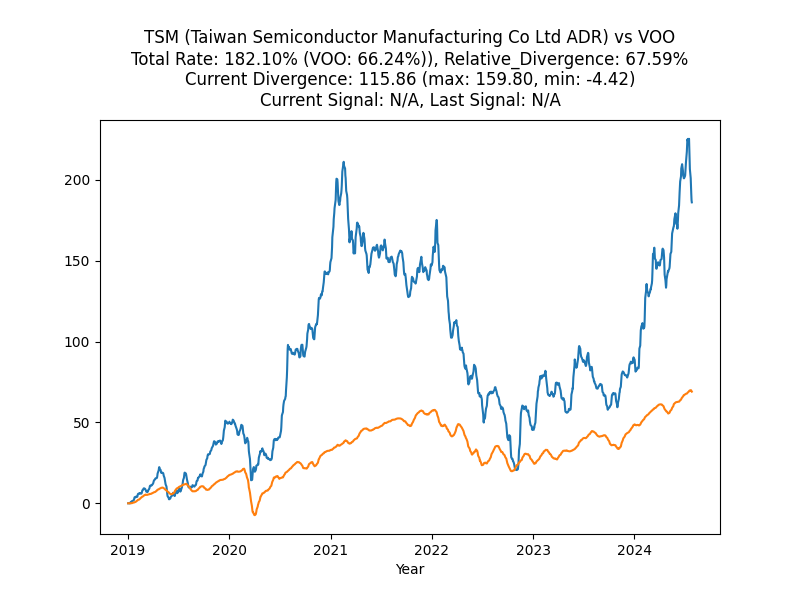
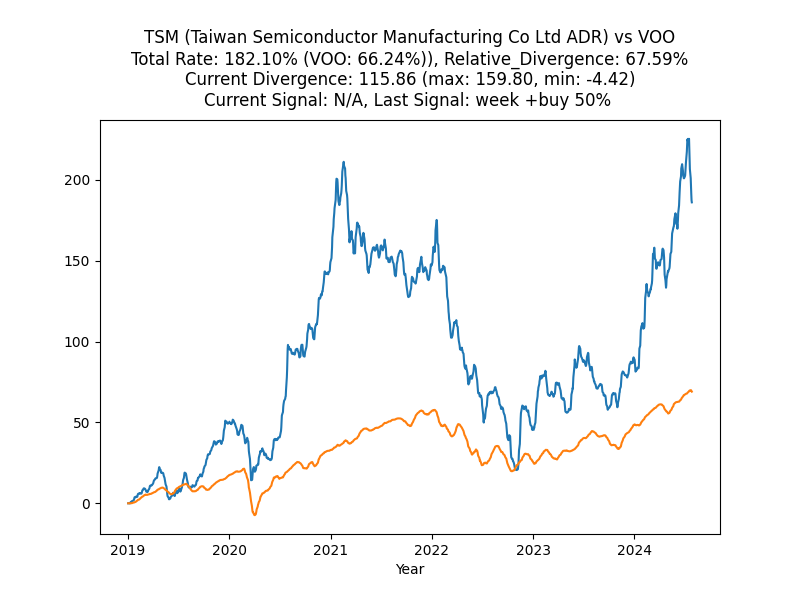
Auto-commit moved files

Changed region(s): [[0.25, 0.15, 0.7812, 0.18]]

diff --git a/my-flask-app/Results_plot.py b/my-flask-app/Results_plot.py
@@ -47,6 +47,12 @@ def plot_comparison_results(file_path1, file_path2, stock1, stock2, total_accoun
     df1_graph = pd.read_csv(full_path1, parse_dates=['Date'], index_col='Date')
     df2_graph = pd.read_csv(full_path2, parse_dates=['Date'], index_col='Date')
 
+    # Last Signal을 가져오기 위한 수정된 부분
+    last_signal_row = df1_graph.dropna(subset=['signal']).iloc[-1] if 'signal' in df1_graph.columns else None
+    last_signal = last_signal_row['signal'] if last_signal_row is not None else 'N/A'
+
+    current_signal = df1_graph['ppo_histo'].iloc[-1] if 'ppo_histo' in df1_graph.columns else 'N/A'
+
     # 간략화된 데이터프레임 로드 (이격 결과)
     simplified_df_path1 = os.path.join(os.path.dirname(full_path1), 'static', 'images', f'result_{stock1}.csv')
     print(f"Attempting to read simplified dataset for divergence from: {simplified_df_path1}")
@@ -76,9 +82,7 @@ def plot_comparison_results(file_path1, file_path2, stock1, stock2, total_accoun
     current_divergence = df1['Divergence'].iloc[-1]
     relative_divergence = df1['Relative_Divergence'].iloc[-1]
     
-    # Last Signal과 Current Signal 설정
-    last_signal = df1_graph['Signal'].iloc[-1] if 'Signal' in df1.columns else 'N/A'
-    current_signal = df1_graph['ppo_histogram'].iloc[-1] if 'ppo_histogram' in df1.columns else 'N/A'
+
 
 
     plt.title(f"{stock1} ({get_ticker_name(stock1)}) vs {stock2}\n" +
